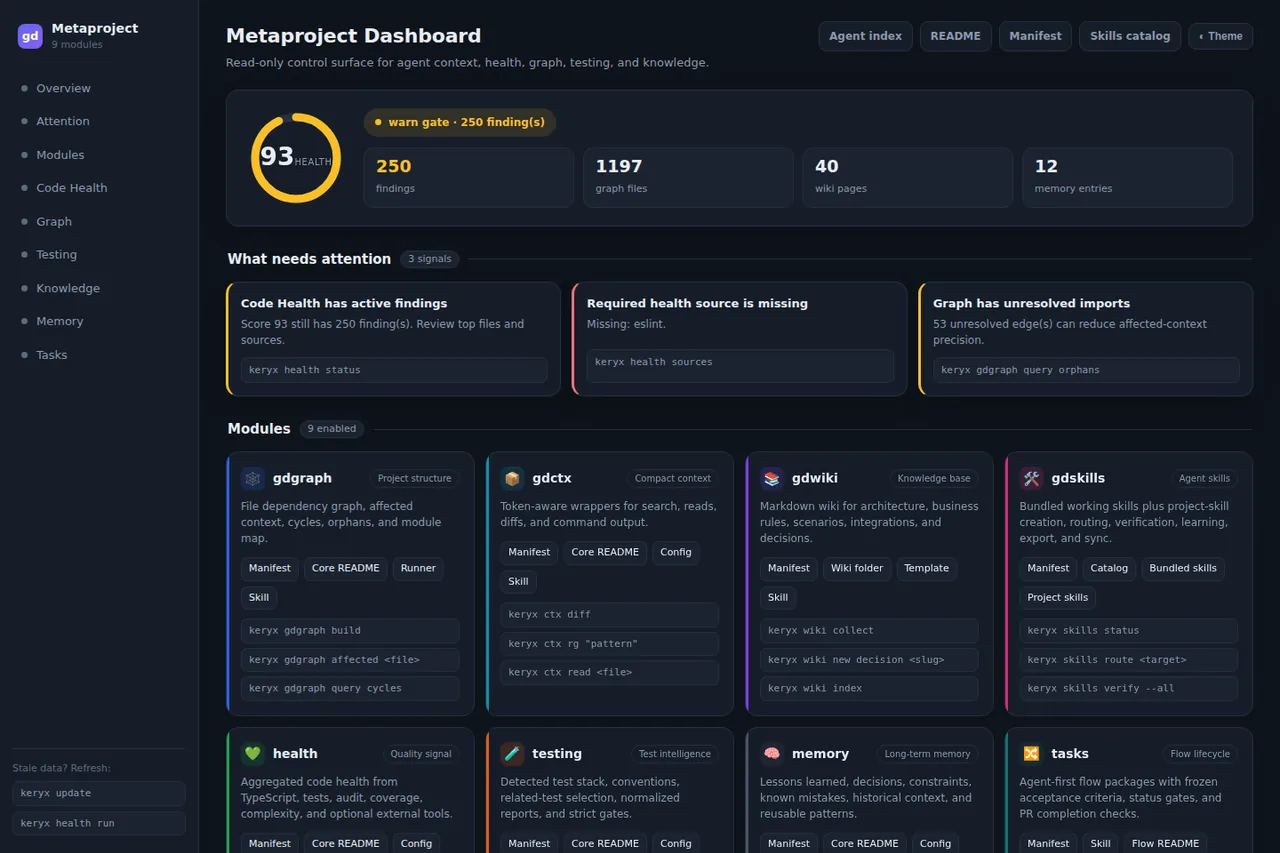
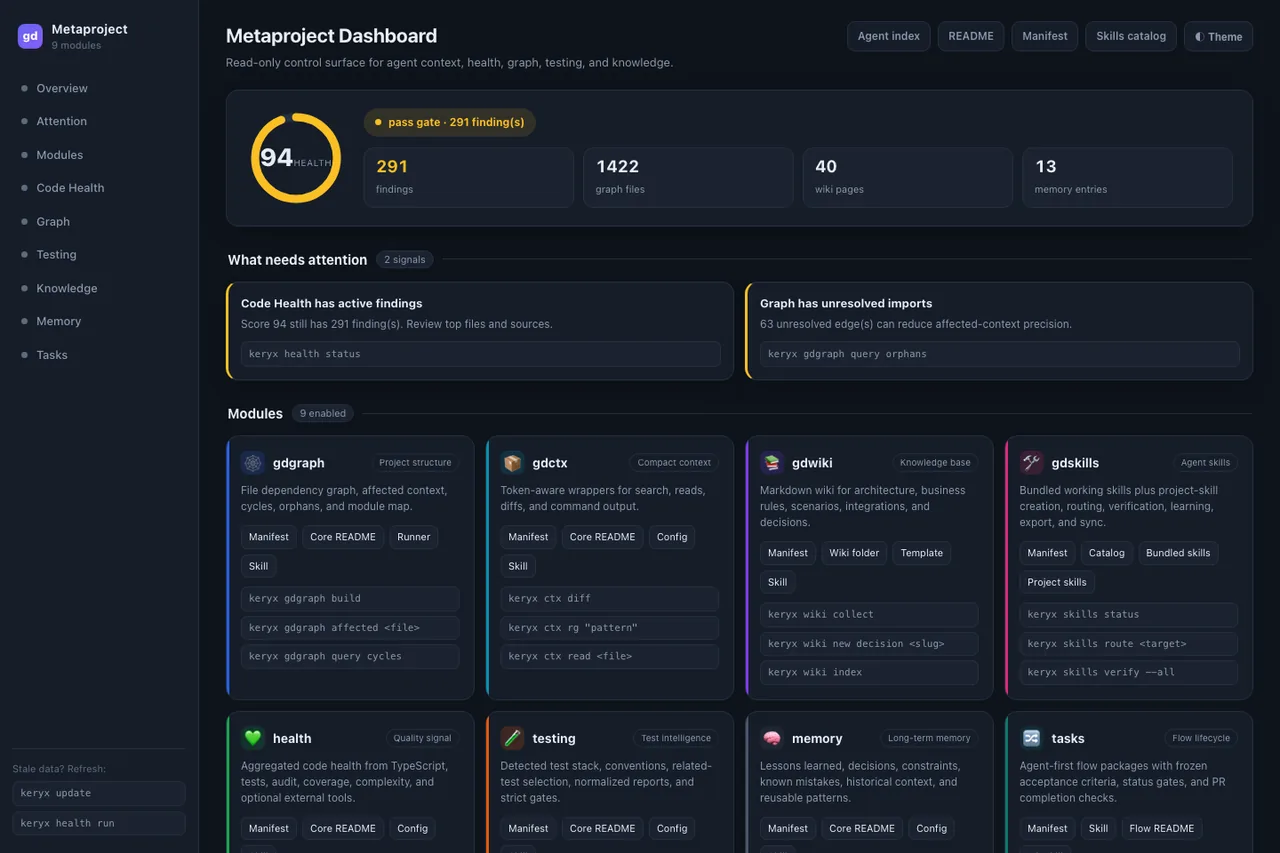
feat: a layer for roomyx, and the current version beside every project
The room. A new layer between the proof and restraint: several persona agents
arguing toward a written goal contract, one dispatcher as the log's only writer,
an owner who can veto. Its wall retells the 0.12.0 review room — asked whether
roomyx should continue at all, where the founder opened with "it should not"
and moved on an argument rather than a count. The transcript is linked at the
archiving commit, so a merge cannot break the link. The screenshot is the TUI
cropped to its window, so the argument in it can be read.

Versions. Each named project now carries its current version, read from the
nightly snapshot: npm when the package is published there, since that is what a
person installs, otherwise the latest GitHub release, and nothing rather than a
guess. keryx and roomyx come from npm, helyx and goodai-base from releases. npm
entries are looked up by name now, not by position in a list that just grew.

The dashboard. The nightly re-shoot had been failing since 9 September while the
run stayed green: the keryx clone had no dependencies, so health could not find
eslint or tsc, reported INCOMPLETE, and the header had no score to read. The site
was left on a picture carrying a warning our own runner caused. The clone now
installs first — under a second for 221 packages — and a fresh shot from that
path is included: health 94, pass gate. The stale dashboard.png source is gone,
so a local `bun run shots` can no longer overwrite the live shot with it.

diff --git a/src/content/layers.ts b/src/content/layers.ts
@@ -30,6 +30,8 @@ export type Layer = {
   body: TX;
   wall?: { label: TX; text: TX };
   shots?: Shot[];
+  /** Where a claim in the layer can be checked. Pinned to a commit, not a branch. */
+  source?: { href: string; label: TX };
   /** Layers with nothing to screenshot get a diagram that makes the argument. */
   figure?: { kind: IllustrationKind; caption: TX };
   /** Part of the one continuous body of rock. */
@@ -283,10 +285,52 @@ export const LAYERS: Layer[] = [
     ],
   },
   {
+    id: "room",
+    depth: { en: "2026-09", ru: "2026-09" },
+    facts: 78,
+    kicker: { en: "layer 06 · the room", ru: "слой 06 · комната" },
+    project: "roomyx",
+    heading: {
+      en: "A room does not get to say it agreed.",
+      ru: "Комната не имеет права сказать, что договорилась.",
+    },
+    body: {
+      en: "Several persona agents — founders, engineers, fifty interview subjects, a judging panel — argue toward a written goal contract with measurable criteria and a pass mark. Each is spawned once and kept alive, so a turn carries only what that participant has not seen yet. One dispatcher is the <b>only writer</b> of an append-only log, and the owner can veto, add a constraint, add a participant or move the goal — none of which the room can vote down. A score over the bar with someone still arguing is <b>not convergence</b>. Since 9 September: <b>{{roomyx.commits}} commits</b>, <b>{{roomyx.versions}} versions</b> on npm, latest <b>{{roomyx.latest}}</b>.",
+      ru: "Несколько агентов-персонажей — основатели, инженеры, пятьдесят интервьюируемых, жюри — спорят к письменному контракту цели с измеримыми критериями и проходным баллом. Каждый поднимается один раз и живёт всю сессию, поэтому ход несёт только то, чего участник ещё не видел. Лог только дополняется, и пишет в него <b>один диспетчер</b>, а владелец может наложить вето, добавить ограничение, участника или сдвинуть цель — и ничего из этого комната не отменит голосованием. Балл выше порога, пока кто-то ещё спорит, — <b>не согласие</b>. С 9 сентября: коммитов — <b>{{roomyx.commits}}</b>, версий в npm — <b>{{roomyx.versions}}</b>, последняя — <b>{{roomyx.latest}}</b>.",
+    },
+    wall: {
+      label: {
+        en: "the latest room was asked whether to continue at all",
+        ru: "последняя комната решала, продолжать ли вообще",
+      },
+      text: {
+        en: "Five personas on three different models reviewed 0.12.0 against one question: is roomyx worth continuing. The founder opened with “it should not continue” — and changed his vote when another participant showed his premise was wrong, not because he was outnumbered. The verdict came back five of five. On the way the room found two defects in the release it was reviewing.",
+        ru: "Пять персонажей на трёх разных моделях разбирали 0.12.0 с одним вопросом: стоит ли roomyx продолжать. Основатель начал с «это не стоит продолжать» — и сменил голос, когда другой участник показал, что его посылка неверна, а не потому, что остался в меньшинстве. Вердикт — пять из пяти. По дороге комната нашла два дефекта в релизе, который разбирала.",
+      },
+    },
+    source: {
+      // Pinned to the archiving commit: a branch link would break at merge.
+      href: "https://github.com/MrCipherSmith/roomyx/blob/2ded3d6314d403b75aeed82ee5b09ba76e399e3a/docs/roomyx/rooms/2026-09-11-review-0.12.0/transcript.md",
+      label: { en: "read the room, unedited", ru: "стенограмма комнаты, без правок" },
+    },
+    shots: [
+      {
+        src: "/shots/roomyx-filter.webp",
+        width: 1015,
+        height: 650,
+        alt: "The roomyx terminal UI with the transcript filtered to one participant, whose message argues for the keymap already shown in the footer",
+        caption: {
+          en: "<b>roomyx-client</b> · the transcript filtered to one participant — whose message argues for the keymap already printed in the footer",
+          ru: "<b>roomyx-client</b> · лента, отфильтрованная по одному участнику, — и её сообщение спорит за раскладку, которая уже напечатана в подвале",
+        },
+      },
+    ],
+  },
+  {
     id: "restraint",
     depth: { en: "—", ru: "—" },
     facts: 81,
-    kicker: { en: "layer 06 · restraint", ru: "слой 06 · сдержанность" },
+    kicker: { en: "layer 07 · restraint", ru: "слой 07 · сдержанность" },
     heading: {
       en: "Four capabilities that ship switched off.",
       ru: "Четыре возможности, выпущенные в положении «выключено».",

diff --git a/scripts/fetch-profile.ts b/scripts/fetch-profile.ts
@@ -17,7 +17,7 @@ const LOGIN = "MrCipherSmith";
  * for a number the page never shows.
  */
 const SELF = "coldstart";
-const NPM_PACKAGES = ["@mrciphersmith/keryx"];
+const NPM_PACKAGES = ["@mrciphersmith/keryx", "@mrciphersmith/roomyx"];
 const OUT = new URL("../data/profile.json", import.meta.url);
 
 const token = process.env.GITHUB_TOKEN ?? process.env.GH_TOKEN;
@@ -88,11 +88,69 @@ type GhRepo = {
   size: number;
 };
 
+/** The latest published GitHub release's tag, or null when there is none. */
+async function latestRelease(repo: string): Promise<string | null> {
+  const res = await fetch(
+    `https://api.github.com/repos/${LOGIN}/${repo}/releases/latest`,
+    {
+      headers: {
+        accept: "application/vnd.github+json",
+        "user-agent": `${LOGIN}-profile-builder`,
+        ...(token ? { authorization: `Bearer ${token}` } : {}),
+      },
+    },
+  );
+  if (!res.ok) return null;
+  const { tag_name } = (await res.json()) as { tag_name?: string };
+  return tag_name ?? null;
+}
+
+type Version = { value: string; source: "npm" | "release" };
+
+/**
+ * What the site shows beside a project's name. npm first, because that is the
+ * version a person actually gets when they install it; the GitHub release
+ * otherwise; nothing at all rather than a guess.
+ */
+async function versionFor(
+  repo: string,
+  npm: { name: string; latest: string }[],
+): Promise<Version | null> {
+  const pkg = npm.find((p) => p.name === `@mrciphersmith/${repo}`);
+  if (pkg) return { value: pkg.latest, source: "npm" };
+  const tag = await latestRelease(repo);
+  return tag ? { value: tag.replace(/^v/, ""), source: "release" } : null;
+}
+
 async function main() {
   const user = await gh<Record<string, unknown>>(`users/${LOGIN}`);
   const rawRepos = await gh<GhRepo[]>(
     `users/${LOGIN}/repos?per_page=100&sort=updated`,
   );
+
+  const npm = [];
+  for (const pkg of NPM_PACKAGES) {
+    const res = await fetch(`https://registry.npmjs.org/${pkg}`);
+    if (!res.ok) continue;
+    const d = (await res.json()) as {
+      "dist-tags": Record<string, string>;
+      versions: Record<string, unknown>;
+      time: Record<string, string>;
+      description?: string;
+    };
+    const stamps = Object.entries(d.time)
+      .filter(([k]) => k !== "created" && k !== "modified")
+      .map(([, v]) => v)
+      .sort();
+    npm.push({
+      name: pkg,
+      description: d.description ?? null,
+      latest: d["dist-tags"].latest,
+      versions: Object.keys(d.versions).length,
+      firstPublish: stamps[0] ?? d.time.created,
+      lastPublish: stamps[stamps.length - 1] ?? d.time.modified,
+    });
+  }
 
   const repos = [];
   for (const r of rawRepos) {
@@ -116,31 +174,8 @@ async function main() {
       sizeKb: r.size,
       commits: r.fork ? 0 : await commitCount(r.name),
       releases: r.fork ? 0 : await releaseCount(r.name),
+      version: r.fork ? null : await versionFor(r.name, npm),
       languages,
-    });
-  }
-
-  const npm = [];
-  for (const pkg of NPM_PACKAGES) {
-    const res = await fetch(`https://registry.npmjs.org/${pkg}`);
-    if (!res.ok) continue;
-    const d = (await res.json()) as {
-      "dist-tags": Record<string, string>;
-      versions: Record<string, unknown>;
-      time: Record<string, string>;
-      description?: string;
-    };
-    const stamps = Object.entries(d.time)
-      .filter(([k]) => k !== "created" && k !== "modified")
-      .map(([, v]) => v)
-      .sort();
-    npm.push({
-      name: pkg,
-      description: d.description ?? null,
-      latest: d["dist-tags"].latest,
-      versions: Object.keys(d.versions).length,
-      firstPublish: stamps[0] ?? d.time.created,
-      lastPublish: stamps[stamps.length - 1] ?? d.time.modified,
     });
   }
 

diff --git a/src/app/page.tsx b/src/app/page.tsx
@@ -4,7 +4,7 @@ import { Illustration } from "@/components/Illustration";
 import { InstallLine } from "@/components/InstallLine";
 import { MemoryCard } from "@/components/MemoryCard";
 import { T } from "@/components/T";
-import { fill } from "@/lib/figures";
+import { fill, versionOf } from "@/lib/figures";
 import { Toolbar } from "@/components/Toolbar";
 import { COLD_OPEN, LAYERS, PROVENANCE } from "@/content/layers";
 
@@ -87,7 +87,12 @@ export default function Page() {
             <div className="inner">
               <div className="depth r">
                 <T v={layer.kicker} />
-                {layer.project && <span className="name">{layer.project}</span>}
+                {layer.project && (
+                  <span className="name">
+                    {layer.project}
+                    <Ver project={layer.project} />
+                  </span>
+                )}
               </div>
 
               <Decode v={layer.heading} className="r" />
@@ -103,6 +108,12 @@ export default function Page() {
                   </em>
                   <T v={layer.wall.text} />
                 </div>
+              )}
+
+              {layer.source && (
+                <a className="source-link r" href={layer.source.href} target="_blank" rel="noopener">
+                  <T v={layer.source.label} /> →
+                </a>
               )}
 
             </div>
@@ -222,3 +233,18 @@ export default function Page() {
     </>
   );
 }
+
+/** The current version beside a project's name, read from the nightly snapshot. */
+function Ver({ project }: { project: string }) {
+  const v = versionOf(project);
+  if (!v) return null;
+  return (
+    <span
+      className="ver"
+      title={v.source === "npm" ? "latest on npm" : "latest GitHub release"}
+    >
+      v{v.value}
+    </span>
+  );
+}
+

diff --git a/src/lib/figures.ts b/src/lib/figures.ts
@@ -24,9 +24,19 @@ const num = (n: number): TX => ({
 
 const plain = (s: string): TX => ({ en: s, ru: s });
 
+const pkg = (name: string) => {
+  const found = profile.npm.find((p) => p.name === name);
+  if (!found) throw new Error(`profile.json has no npm package "${name}"`);
+  return found;
+};
+
 const keryx = repo("keryx");
 const helyx = repo("helyx");
-const npm = profile.npm[0];
+const roomyx = repo("roomyx");
+// By name, not by position: the list grew, and npm[0] would have kept
+// working by accident right up until the order changed.
+const npm = pkg("@mrciphersmith/keryx");
+const roomyxNpm = pkg("@mrciphersmith/roomyx");
 
 const DATE: TX = {
   en: new Date(profile.generatedAt).toLocaleDateString("en-GB", {
@@ -68,6 +78,9 @@ export const FIGURES: Record<string, TX> = {
   "helyx.commits": num(helyx.commits),
   "npm.versions": num(npm.versions),
   "npm.latest": plain(npm.latest),
+  "roomyx.commits": num(roomyx.commits),
+  "roomyx.versions": num(roomyxNpm.versions),
+  "roomyx.latest": plain(roomyxNpm.latest),
   "totals.commits": num(profile.totals.commits),
   "read.on": DATE,
 };
@@ -82,3 +95,19 @@ export function fill(v: TX): TX {
     });
   return { en: one(v.en, "en"), ru: one(v.ru, "ru") };
 }
+
+export type Version = { value: string; source: "npm" | "release" };
+
+/**
+ * The version shown beside a project's name. npm when the package is
+ * published there — that is what a person actually installs — otherwise the
+ * latest GitHub release. Null when the project has neither, and then nothing is
+ * shown rather than a guess.
+ */
+export function versionOf(project: string): Version | null {
+  const found = profile.repos.find((r) => r.name === project) as
+    | { version?: Version | null }
+    | undefined;
+  return found?.version ?? null;
+}
+

diff --git a/src/app/globals.css b/src/app/globals.css
@@ -117,6 +117,12 @@ section.split .inner { flex: 1 1 420px; max-width: 520px; }
 section.seen .name::before { animation: nb 2.8s ease-in-out infinite; }
 @keyframes nb { 50% { opacity: .35; } }
 html[data-ctx="off"] .name::before { animation: none; background: var(--muted); box-shadow: none; }
+/* the version rides beside the name: small, quiet, and only ever real */
+.name .ver {
+  margin-left: 12px; font-size: 11px; letter-spacing: .06em; vertical-align: 3px;
+  color: var(--accent); border: 1px solid var(--line); border-radius: 99px;
+  padding: 3px 9px; white-space: nowrap;
+}
 
 h2 { font-weight: 400; font-size: clamp(26px, 4.2vw, 46px); line-height: 1.14; letter-spacing: -.025em; margin: 16px 0 0; }
 .say { color: var(--muted); margin: 20px 0 0; max-width: 62ch; font-size: 14.5px; }
@@ -124,6 +130,10 @@ h2 { font-weight: 400; font-size: clamp(26px, 4.2vw, 46px); line-height: 1.14; l
 .say.source { font-size: 12.5px; padding-left: 14px; border-left: 1px solid var(--line); }
 .wall { margin-top: 26px; padding-left: 16px; border-left: 2px solid var(--warn); color: var(--fg); font-size: 15px; max-width: 56ch; }
 .wall em { font-style: normal; color: var(--warn); font-size: 10px; letter-spacing: .18em; text-transform: uppercase; display: block; margin-bottom: 8px; }
+.source-link { display: inline-block; margin-top: 18px; font-size: 12px; letter-spacing: .06em;
+  color: var(--warn); text-decoration: none;
+  border-bottom: 1px solid color-mix(in srgb, var(--warn) 40%, transparent); }
+.source-link:hover { border-bottom-color: var(--warn); }
 
 /* ---- reveal ---- */
 .r { opacity: 0; transform: translateY(14px); filter: blur(6px);
